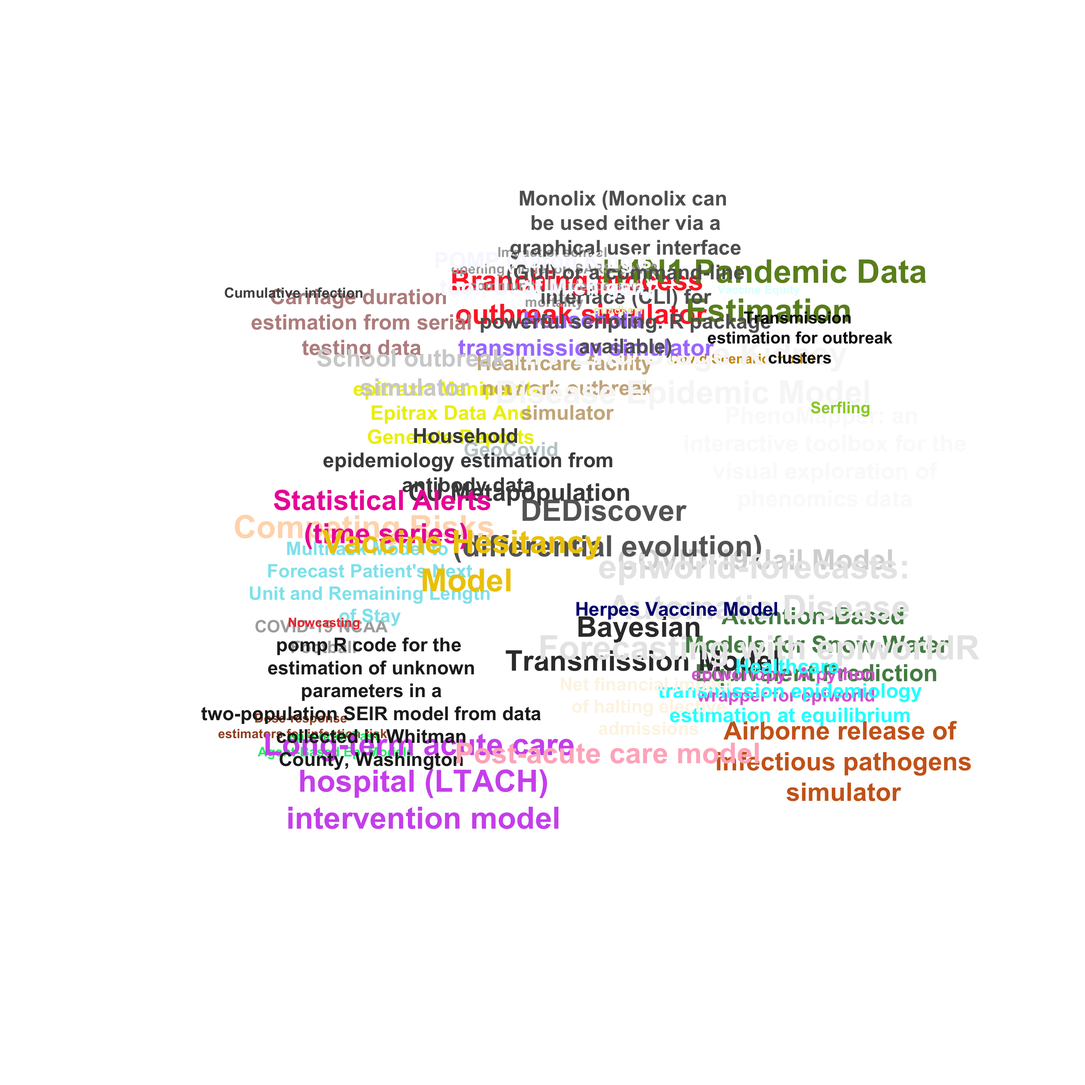
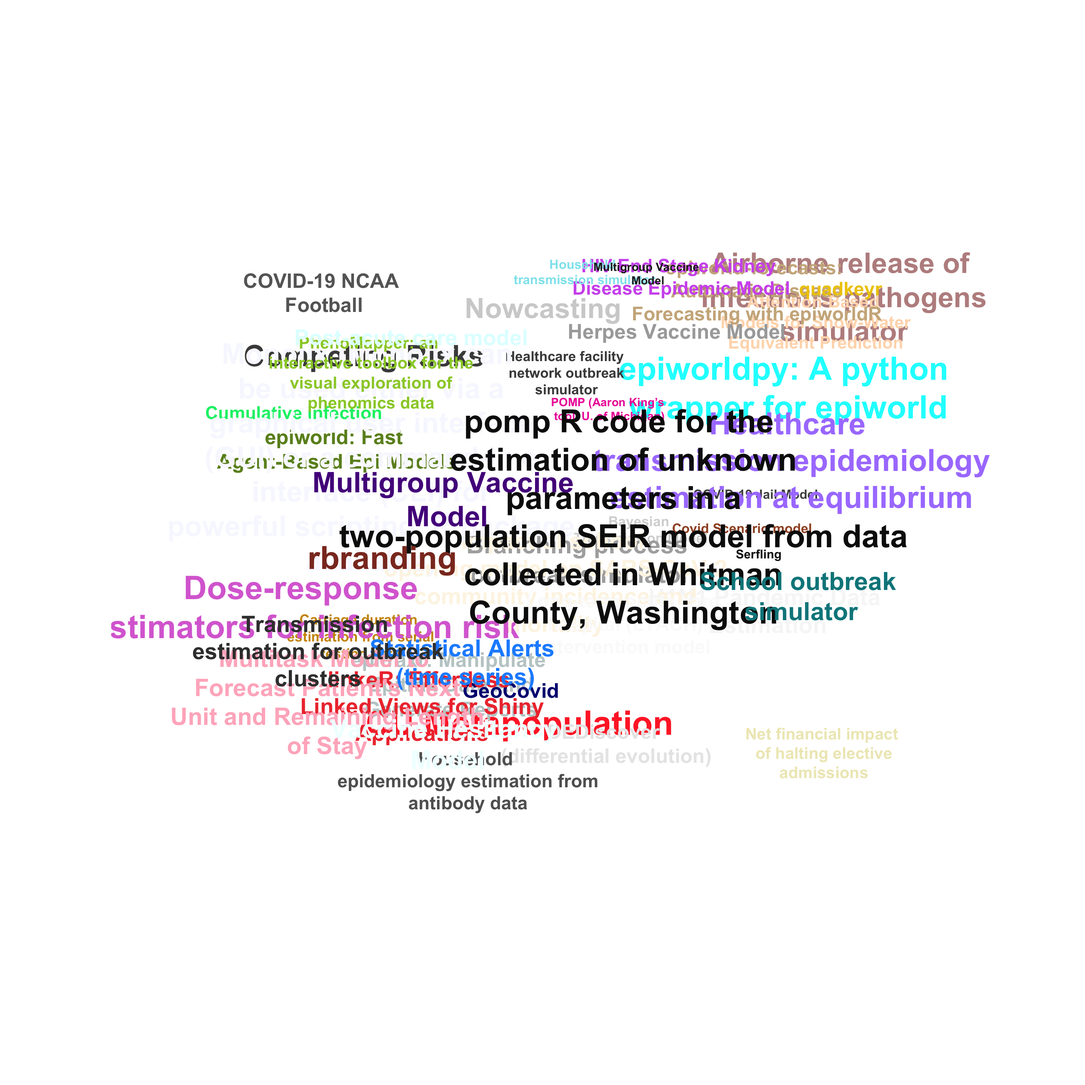
Rebuild README after resolving merge conflict

Changed region(s): [[0.0938, 0.1562, 0.9062, 0.7812]]

diff --git a/README.md b/README.md
@@ -7,18 +7,18 @@
 This repository is used for coordinating all the software development
 activities by the ForeSITE group.
 
-The list includes 44 tools. A complete list featuring completed and
-work-in-progress tools holds 59 entries. We will be updating this list
+The list includes 45 tools. A complete list featuring completed and
+work-in-progress tools holds 60 entries. We will be updating this list
 as we progress.
 
 |     | Type                                                      |   N |
 |:----|:----------------------------------------------------------|----:|
 | 5   | Epidemic Model - Scenario Modeling                        |  21 |
 | 8   | Parameter estimation                                      |  12 |
+| 2   | Decision Support tool                                     |   2 |
 | 3   | Developer Tool                                            |   2 |
 | 6   | Epidemic Model - Scenario Modeling & Parameter estimation |   2 |
 | 1   | Automation pipeline tool                                  |   1 |
-| 2   | Decision Support tool                                     |   1 |
 | 4   | Epidemic Model - Forecasting                              |   1 |
 | 7   | Nowcasting tool                                           |   1 |
 | 9   | Statistical Model - Forecasting                           |   1 |
@@ -27,7 +27,7 @@ Number of software packages by type
 
 | Language |   N |
 |:---------|----:|
-| r        |  24 |
+| r        |  25 |
 | Other    |  11 |
 | python   |   7 |
 | c++      |   3 |
@@ -41,7 +41,7 @@ Number of software packages by programming language.
 # Existing software packages
 
 List of existing software packages that are being used by the ForeSITE
-group. This list was last updated on 2025-07-28.
+group. This list was last updated on 2025-08-14.
 
 | N | Tool | Description |
 |---:|:---|:---|
@@ -58,36 +58,37 @@ group. This list was last updated on 2025-07-28.
 | 11 | Cumulative infection (R, SAS) | We’ve used Mortality Mapping (mMAP), an existing epidemiologic and statistical analysis approach by Lu et al. \[1,2\] to estimate the cumulative incidence of symptomatic COVID-19 in Veterans in the United States. mMAP is a time series deconvolution method which infers the true COVID-19 case counts from reported COVID-19 deaths. It uses symptom onset to death distribution, smoothed time series of reported COVID-19 deaths, and symptomatic case fatality rate (sCFR) to estimate the distribution of symptomatic COVID-19 cases. We focus on the adjusted version of the mMAP approach presented by Lu et al., which tries to account for the unreported COVID-19 deaths. While Lu uses excess influenza and pneumonia deaths to account for unreported COVID-19 deaths, we have extended their approach by using excess all-cause deaths. <br>([Learn more…](profiles.md#cumulative-infection))<br> |
 | 12 | DEDiscover (differential evolution) (Kotlin, C++.) | Parameter estimation using differential evolution.<br>([Learn more…](profiles.md#dediscover-differential-evolution))<br> |
 | 13 | Dose-response estimators for infection risk (R) | Estimate infection probability from a given dose of exposure using data sets from experimental dose-quantified exposures of humans or animals; model-based results used to perform quantitative risk assessment for potential human exposure scenarios. Parameter estimated: Per-unit-dose infection probability and associated additional parameters for more complicated dose-response models, including those that quantify dose-dependent latent/incubation period; can convert estimates to common “infectious dose” quantification metrics such as “ID-50.” Estimates derived via maximum likelihood for multiple equation-based dose-response models fit to exposure-response data.<br>([Learn more…](profiles.md#dose-response-estimators-for-infection-risk))<br> |
-| 14 | epiworld: Fast Agent-Based Epi Models (R, C++, Python, Webessembly) | A flexible framework for Agent-Based Models (ABM), the ‘epiworldR’ package provides methods for prototyping disease outbreaks and transmission models using a ‘C++’ backend, making it very fast. It supports multiple epidemiological models, including the Susceptible-Infected-Susceptible (SIS), Susceptible-Infected-Removed (SIR), Susceptible-Exposed-Infected-Removed (SEIR), and others, involving arbitrary mitigation policies and multiple-disease models. Users can specify infectiousness/susceptibility rates as a function of agents’ features, providing great complexity for the model dynamics. Furthermore, ‘epiworldR’ is ideal for simulation studies featuring large populations.<br>([Learn more…](profiles.md#epiworld-fast-agent-based-epi-models))<br>**GitHub:** [![GitHub last commit](https://img.shields.io/github/last-commit/UofUEpiBio/epiworld.png)](https://github.com/UofUEpiBio/epiworld) |
-| 15 | epiworld-forecasts: Automatic Disease Forecasting with epiworldR (R) | epiworld-forecasts uses epiworldR, GitHub Actions, and Docker to generate disease forecasts that update automatically. While we provide an example forecast of COVID-19 case counts in Utah, this tool is an open-source, template repository that can easily be adapted to generate forecasts for different diseases.<br>([Learn more…](profiles.md#epiworld-forecasts-automatic-disease-forecasting-with-epiworldr))<br>**GitHub:** [![GitHub last commit](https://img.shields.io/github/last-commit/EpiForeSITE/epiworld-forecasts.png)](https://github.com/EpiForeSITE/epiworld-forecasts) |
-| 16 | epiworldpy: A python wrapper for epiworld (Python) | A flexible framework for Agent-Based Models (ABM), the ‘epiworldR’ package provides methods for prototyping disease outbreaks and transmission models using a ‘C++’ backend, making it very fast. It supports multiple epidemiological models, including the Susceptible-Infected-Susceptible (SIS), Susceptible-Infected-Removed (SIR), Susceptible-Exposed-Infected-Removed (SEIR), and others, involving arbitrary mitigation policies and multiple-disease models. Users can specify infectiousness/susceptibility rates as a function of agents’ features, providing great complexity for the model dynamics. Furthermore, ‘epiworldR’ is ideal for simulation studies featuring large populations.<br>([Learn more…](profiles.md#epiworldpy-a-python-wrapper-for-epiworld))<br>**GitHub:** [![GitHub last commit](https://img.shields.io/github/last-commit/UofUEpiBio/epiworldpy.png)](https://github.com/UofUEpiBio/epiworldpy) |
-| 17 | GeoCovid (R) | Shiny App for visualizing mobility data and COVID-19 cases in Buenos Aires province during March to December 2020.<br>([Learn more…](profiles.md#geocovid))<br>**GitHub:** [![GitHub last commit](https://img.shields.io/github/last-commit/Fernandez-Lab-WSU/geocovid_app.png)](https://github.com/Fernandez-Lab-WSU/geocovid_app) |
-| 18 | H1N1 Pandemic Data Estimation (TBD) | Describes an SIR model parameter estimation with an improved fit using least squares estimation over maximum likelihood estimation. Parameter estimated: Transmission rate, recovery rate, R0, number of initial infectives<br>([Learn more…](profiles.md#h1n1-pandemic-data-estimation))<br> |
-| 19 | Healthcare facility network outbreak simulator (Anylogic) | Provides flexible framework for agent-based simulation of outbreaks among in-patients in a generic-but-realistic network of short/long-stay hospitals and nursing homes, as well as interventions to mitigate transmission and inter-facility spread. Scenarios(s) Modeled: Initial invasion of new pathogen / strain and/or endemic pathogens. Intervention scenarios for patient-targeted efforts including surveillance and isolation (contact precautions), vaccination, and anti-microbial drug treatment.<br>([Learn more…](profiles.md#healthcare-facility-network-outbreak-simulator))<br> |
-| 20 | Healthcare transmission epidemiology estimation at equilibrium (R) | Estimate the extent of patient-to-patient transmission and other quantities using admission prevalence and cross-sectional point-prevalence data for carriage of organisms among healthcare facility in-patients. Parameter estimated: Patient-to-patient transmission rate, facility reproduction number, rate of progression to infection, intervention effects if applicable. Estimates derived via solving differential equations at equilibrium and facility reproduction number equations.<br>([Learn more…](profiles.md#healthcare-transmission-epidemiology-estimation-at-equilibrium))<br> |
-| 21 | Herpes Vaccine Model (Matlab) | An ODE-based 6-compartment SI model with asymptomatic carriers and vaccinated classes to forecast the number of infections prevented with imperfect vaccination and infections prevented per vaccine administered. Parameter estimated: Highly correlated parameters determined using LHS PRCC. Scenarios(s) Modeled: Prophylactic (pre-exposure) vaccines, Therapeutic (post-exposure) vaccines, Parameter(s) Estimated: Highly correlated parameters determined using LHS PRCC<br>([Learn more…](profiles.md#herpes-vaccine-model))<br> |
-| 22 | HIV End Stage Kidney Disease Epidemic Model (Coded in Matlab, Berkeley Madonna, or Excel.) | An ODE-based model to predict future disease prevalence given the impact of drug therapy levels and its mechanism of action (i.e., stopping progression to disease or reducing deaths). Parameter estimated: Growth rate, death rate, drug efficacy to block disease progression. Scenarios(s) Modeled: Rebound in prevalence due to insufficient therapy (e.g., like in Paxlovid rebound).<br>([Learn more…](profiles.md#hiv-end-stage-kidney-disease-epidemic-model))<br> |
-| 23 | Household epidemiology estimation from antibody data (R) | Simultaneously estimate household importation risk, household secondary attack rate, and associated variability / heterogeneities using point-prevalence data for antibody positivity among household members. Parameter estimated: Household importation probability, household secondary attack rate, sensitivity / specificity of data for indicating prior infection, variability (dispersion) in transmissibility, and heterogeneities in those quantities over age and/or other identifiable characteristics of individuals and households. Estimates derived via maximum likelihood for final household outbreak size equations.<br>([Learn more…](profiles.md#household-epidemiology-estimation-from-antibody-data))<br> |
-| 24 | Household transmission simulator (R) | Simulate household importation and within-household transmission across a population of households, and intervention effects, e.g. vaccination. Scenarios(s) Modeled: Household importation and transmission with variability in transmissibility and heterogeneity across age groups and vaccination status.<br>([Learn more…](profiles.md#household-transmission-simulator))<br> |
-| 25 | Impact of school opening model on SARS-CoV-2 community incidence and mortality (Stata) | The goal of this statistical analysis was to compare SARS-CoV-2 community incidence and mortality rates across schools that opened in in-person, remote, or hybrid mode. Measure(s) of Economic Impact: Infections and mortality<br>([Learn more…](profiles.md#impact-of-school-opening-model-on-sars-cov-2-community-incidence-and-mortality))<br> |
-| 26 | linkeR: Effortless Linked Views for Shiny Applications (R) | linkeR makes it effortless to create linked views in Shiny applications. When users interact with one component (like clicking a map marker), all related components (tables, charts, other maps) automatically update to show corresponding information.<br>([Learn more…](profiles.md#linker-effortless-linked-views-for-shiny-applications))<br>**GitHub:** [![GitHub last commit](https://img.shields.io/github/last-commit/EpiForeSITE/linkeR/.png)](https://github.com/EpiForeSITE/linkeR/) |
-| 27 | Long-term acute care hospital (LTACH) intervention model (R) | Provides analytic framework for investigating patient-focused interventions to prevent transmission in high-risk healthcare facilities and their direct and population-level health impacts and threshold effects. Scenarios(s) Modeled: Intervention scenarios for surveillance and isolation (contact precautions), decolonization drugs, infection treatment, horizontal transmission reduction, and length of stay reduction.<br>([Learn more…](profiles.md#long-term-acute-care-hospital-ltach-intervention-model))<br> |
-| 28 | Monolix (Monolix can be used either via a graphical user interface (GUI) or a command-line interface (CLI) for powerful scripting. R package available) | Parameter estimation in non-linear mixed effect models. Parameter estimated: Any.<br>([Learn more…](profiles.md#monolix))<br> |
-| 29 | Multigroup Vaccine Model (R) | A tool for exploring the effects of varying rates of vaccination among disparate socio-economic groups<br>([Learn more…](profiles.md#multigroup-vaccine-model))<br>**GitHub:** [![GitHub last commit](https://img.shields.io/github/last-commit/EpiForeSITE/multigroup-vaccine.png)](https://github.com/EpiForeSITE/multigroup-vaccine) |
-| 30 | Multitask Model to Forecast Patient’s Next Unit and Remaining Length of Stay (Python) | Length of Stay prediction and unit transfer prediction tool. Scenarios(s) Modeled: In this multi-task learning model, we train the model to predict:Task-1: patient’s unit label in next time step. Task-2: patient’s remaining length of stay.The model inputs get updated on a daily basis and generates prediction accordingly.<br>([Learn more…](profiles.md#multitask-model-to-forecast-patient-s-next-unit-and-remaining-length-of-stay))<br>**GitHub:** [![GitHub last commit](https://img.shields.io/github/last-commit/madhobi/multitask_unit_and_days.png)](https://github.com/madhobi/multitask_unit_and_days) |
-| 31 | Net financial impact of halting elective admissions (Stata) | The goal of this model was to estimate the net financial impact to the hospital of halting elective admissions due to a COVID-19 surge. Measure(s) of Economic Impact: Hospital profit<br>([Learn more…](profiles.md#net-financial-impact-of-halting-elective-admissions))<br> |
-| 32 | Nowcasting (TBD) | Given the time lag between laboratory testing for disease and eventual reporting, we’ve developed a model which consumes data from both community and VA to predict “now” how many positive tests for a disease (COVID-19 in this context) will eventually be reported as positive. A VA HSR&D abstract is available.<br>([Learn more…](profiles.md#nowcasting))<br> |
-| 33 | PhenoMapper: an interactive toolbox for the visual exploration of phenomics data (PhenoMapper extension) | TDA tool that can possibly help us to view some trajectory data. Scenarios(s) Modeled: We demonstrate the utility of this new tool on real-world plant (e.g., maize) phenomics datasets.<br>([Learn more…](profiles.md#phenomapper-an-interactive-toolbox-for-the-visual-exploration-of-phenomics-data))<br>**GitHub:** [![GitHub last commit](https://img.shields.io/github/last-commit/tdavislab/PhenoMapper.png)](https://github.com/tdavislab/PhenoMapper) |
-| 34 | POMP (Aaron King’s tool, U. of Michigan) (R) | Analysis of time series data based on stochastic dynamical systems models<br>([Learn more…](profiles.md#pomp-aaron-king-s-tool-u-of-michigan))<br>**GitHub:** [![GitHub last commit](https://img.shields.io/github/last-commit/kingaa/pomp.png)](https://github.com/kingaa/pomp) |
-| 35 | pomp R code for the estimation of unknown parameters in a two-population SEIR model from data collected in Whitman County, Washington (R) | Build a two-population SEIR model using the pomp coding framework in R and estimate the unknown parameters in this model using the PMCMC algorithm. Parameter estimated: Transmission parameters (transmission within each population and transmission across the two-populations), testing probability, and overdispersion parameter.<br>([Learn more…](profiles.md#pomp-r-code-for-the-estimation-of-unknown-parameters-in-a-two-population-seir-model-from-data-collected-in-whitman-county-washington))<br> |
-| 36 | Post-acute care model (R) | A basic model to plan for the post-acute care needs following a hospital surge<br>([Learn more…](profiles.md#post-acute-care-model))<br>**GitHub:** [![GitHub last commit](https://img.shields.io/github/last-commit/mattrmaloney/covid-post-acute-care.png)](https://github.com/mattrmaloney/covid-post-acute-care) |
-| 37 | quadkeyr (Python) | An R package designed to create raster images from QuadKey-identified data (Microsoft Bing Maps Tile System), aiming to simplify the analysis of Facebook mobility data.<br>([Learn more…](profiles.md#quadkeyr))<br>**GitHub:** [![GitHub last commit](https://img.shields.io/github/last-commit/Fernandez-Lab-WSU/quadkeyr.png)](https://github.com/Fernandez-Lab-WSU/quadkeyr) |
-| 38 | rbranding (R) | An R package that facilitates the creation of Shiny applications and quarto documents with support for site-specific branding and styling.<br>([Learn more…](profiles.md#rbranding))<br>**GitHub:** [![GitHub last commit](https://img.shields.io/github/last-commit/EpiForeSITE/branding-package.png)](https://github.com/EpiForeSITE/branding-package) |
-| 39 | School outbreak simulator (Anylogic) | Agent-based simulation of person-to-person transmission at schools over data-based dynamic proximity contact networks. Scenarios(s) Modeled: Transmission modeled during school hours; can model interventions affecting the contact network and school attendance behavior.<br>([Learn more…](profiles.md#school-outbreak-simulator))<br> |
-| 40 | Serfling (JMP) | Classic Serfling-type regression model for seasonal diseases. Can be used to estimate both excess risk (based on breaching a threshold), or estimate the peak week and other parameters of a yearly epidemic curve.<br>([Learn more…](profiles.md#serfling))<br> |
-| 41 | Statistical Alerts (time series) (R) | We have supported an Operations system for processing time series for “aberrations” (aka, “alerts”, “potential outbreaks”) for 8+ years in VA BASIC. During this time, we’ve integrated several among the suite of algorithms available in the R package titled “surveillance”. This includes several classes of numerical methods, of which some are window-based, control chart-based or trained linear models. A brief presentation on this is attached here.<br>([Learn more…](profiles.md#statistical-alerts-time-series))<br> |
-| 42 | Transmission estimation for outbreak clusters (R) | Provides estimates for individual-level transmission distribution (mean and variance) based on data from prior isolated outbreak clusters. Useful for quantifying the risk of superspreading events and the risk that future outbreaks will exceed a given threshold.Parameter estimated: Basic reproduction number; dispersion parameter quantifying variance in transmission; extensions estimate changes in reproduction number by generation, e.g. post-control reproduction number. Estimated via maximum likelihood using final size distribution equations for branching process models.<br>([Learn more…](profiles.md#transmission-estimation-for-outbreak-clusters))<br> |
-| 43 | Multigroup Vaccine Model (R) | A tool for exploring the effects of varying rates of vaccination among disparate socio-economic groups<br>([Learn more…](profiles.md#multigroup-vaccine-model))<br>**GitHub:** [![GitHub last commit](https://img.shields.io/github/last-commit/EpiForeSITE/vaccine-equity-model.png)](https://github.com/EpiForeSITE/vaccine-equity-model) |
-| 44 | Vaccine Hesitancy Model (Matlab, R, and Mathematica.) | An ODE (ordinary differential equation)-based SVEIR model with 3 compartments for symptoms (mild, moderate, severe) that can quantify the tradeoffs between vaccine efficacy and vaccine hesitancy on reducing the disease burden. Scenarios(s) Modeled: R0, cumulative infections, and deaths due to varying values of transmission rate, vaccine coverage rate, vaccine efficacy, and vaccine hesitancy. The vaccine efficacy required to compensate for different levels of vaccine hesitancy.<br>([Learn more…](profiles.md#vaccine-hesitancy-model))<br> |
+| 14 | epitraxr: Manipulate Epitrax Data And Generate Reports (R) | R package for manipulating Epitrax data and generating reports. This tool is designed to simplify the process of working with Epitrax data, making it easier for public health professionals to analyze and report on disease surveillance data. It generates internal and public reports in CSV, Excel, or PDF formats.<br>([Learn more…](profiles.md#epitraxr-manipulate-epitrax-data-and-generate-reports))<br>**GitHub:** [![GitHub last commit](https://img.shields.io/github/last-commit/EpiForeSITE/epitraxr.png)](https://github.com/EpiForeSITE/epitraxr) |
+| 15 | epiworld: Fast Agent-Based Epi Models (R, C++, Python, Webessembly) | A flexible framework for Agent-Based Models (ABM), the ‘epiworldR’ package provides methods for prototyping disease outbreaks and transmission models using a ‘C++’ backend, making it very fast. It supports multiple epidemiological models, including the Susceptible-Infected-Susceptible (SIS), Susceptible-Infected-Removed (SIR), Susceptible-Exposed-Infected-Removed (SEIR), and others, involving arbitrary mitigation policies and multiple-disease models. Users can specify infectiousness/susceptibility rates as a function of agents’ features, providing great complexity for the model dynamics. Furthermore, ‘epiworldR’ is ideal for simulation studies featuring large populations.<br>([Learn more…](profiles.md#epiworld-fast-agent-based-epi-models))<br>**GitHub:** [![GitHub last commit](https://img.shields.io/github/last-commit/UofUEpiBio/epiworld.png)](https://github.com/UofUEpiBio/epiworld) |
+| 16 | epiworld-forecasts: Automatic Disease Forecasting with epiworldR (R) | epiworld-forecasts uses epiworldR, GitHub Actions, and Docker to generate disease forecasts that update automatically. While we provide an example forecast of COVID-19 case counts in Utah, this tool is an open-source, template repository that can easily be adapted to generate forecasts for different diseases.<br>([Learn more…](profiles.md#epiworld-forecasts-automatic-disease-forecasting-with-epiworldr))<br>**GitHub:** [![GitHub last commit](https://img.shields.io/github/last-commit/EpiForeSITE/epiworld-forecasts.png)](https://github.com/EpiForeSITE/epiworld-forecasts) |
+| 17 | epiworldpy: A python wrapper for epiworld (Python) | A flexible framework for Agent-Based Models (ABM), the ‘epiworldR’ package provides methods for prototyping disease outbreaks and transmission models using a ‘C++’ backend, making it very fast. It supports multiple epidemiological models, including the Susceptible-Infected-Susceptible (SIS), Susceptible-Infected-Removed (SIR), Susceptible-Exposed-Infected-Removed (SEIR), and others, involving arbitrary mitigation policies and multiple-disease models. Users can specify infectiousness/susceptibility rates as a function of agents’ features, providing great complexity for the model dynamics. Furthermore, ‘epiworldR’ is ideal for simulation studies featuring large populations.<br>([Learn more…](profiles.md#epiworldpy-a-python-wrapper-for-epiworld))<br>**GitHub:** [![GitHub last commit](https://img.shields.io/github/last-commit/UofUEpiBio/epiworldpy.png)](https://github.com/UofUEpiBio/epiworldpy) |
+| 18 | GeoCovid (R) | Shiny App for visualizing mobility data and COVID-19 cases in Buenos Aires province during March to December 2020.<br>([Learn more…](profiles.md#geocovid))<br>**GitHub:** [![GitHub last commit](https://img.shields.io/github/last-commit/Fernandez-Lab-WSU/geocovid_app.png)](https://github.com/Fernandez-Lab-WSU/geocovid_app) |
+| 19 | H1N1 Pandemic Data Estimation (TBD) | Describes an SIR model parameter estimation with an improved fit using least squares estimation over maximum likelihood estimation. Parameter estimated: Transmission rate, recovery rate, R0, number of initial infectives<br>([Learn more…](profiles.md#h1n1-pandemic-data-estimation))<br> |
+| 20 | Healthcare facility network outbreak simulator (Anylogic) | Provides flexible framework for agent-based simulation of outbreaks among in-patients in a generic-but-realistic network of short/long-stay hospitals and nursing homes, as well as interventions to mitigate transmission and inter-facility spread. Scenarios(s) Modeled: Initial invasion of new pathogen / strain and/or endemic pathogens. Intervention scenarios for patient-targeted efforts including surveillance and isolation (contact precautions), vaccination, and anti-microbial drug treatment.<br>([Learn more…](profiles.md#healthcare-facility-network-outbreak-simulator))<br> |
+| 21 | Healthcare transmission epidemiology estimation at equilibrium (R) | Estimate the extent of patient-to-patient transmission and other quantities using admission prevalence and cross-sectional point-prevalence data for carriage of organisms among healthcare facility in-patients. Parameter estimated: Patient-to-patient transmission rate, facility reproduction number, rate of progression to infection, intervention effects if applicable. Estimates derived via solving differential equations at equilibrium and facility reproduction number equations.<br>([Learn more…](profiles.md#healthcare-transmission-epidemiology-estimation-at-equilibrium))<br> |
+| 22 | Herpes Vaccine Model (Matlab) | An ODE-based 6-compartment SI model with asymptomatic carriers and vaccinated classes to forecast the number of infections prevented with imperfect vaccination and infections prevented per vaccine administered. Parameter estimated: Highly correlated parameters determined using LHS PRCC. Scenarios(s) Modeled: Prophylactic (pre-exposure) vaccines, Therapeutic (post-exposure) vaccines, Parameter(s) Estimated: Highly correlated parameters determined using LHS PRCC<br>([Learn more…](profiles.md#herpes-vaccine-model))<br> |
+| 23 | HIV End Stage Kidney Disease Epidemic Model (Coded in Matlab, Berkeley Madonna, or Excel.) | An ODE-based model to predict future disease prevalence given the impact of drug therapy levels and its mechanism of action (i.e., stopping progression to disease or reducing deaths). Parameter estimated: Growth rate, death rate, drug efficacy to block disease progression. Scenarios(s) Modeled: Rebound in prevalence due to insufficient therapy (e.g., like in Paxlovid rebound).<br>([Learn more…](profiles.md#hiv-end-stage-kidney-disease-epidemic-model))<br> |
+| 24 | Household epidemiology estimation from antibody data (R) | Simultaneously estimate household importation risk, household secondary attack rate, and associated variability / heterogeneities using point-prevalence data for antibody positivity among household members. Parameter estimated: Household importation probability, household secondary attack rate, sensitivity / specificity of data for indicating prior infection, variability (dispersion) in transmissibility, and heterogeneities in those quantities over age and/or other identifiable characteristics of individuals and households. Estimates derived via maximum likelihood for final household outbreak size equations.<br>([Learn more…](profiles.md#household-epidemiology-estimation-from-antibody-data))<br> |
+| 25 | Household transmission simulator (R) | Simulate household importation and within-household transmission across a population of households, and intervention effects, e.g. vaccination. Scenarios(s) Modeled: Household importation and transmission with variability in transmissibility and heterogeneity across age groups and vaccination status.<br>([Learn more…](profiles.md#household-transmission-simulator))<br> |
+| 26 | Impact of school opening model on SARS-CoV-2 community incidence and mortality (Stata) | The goal of this statistical analysis was to compare SARS-CoV-2 community incidence and mortality rates across schools that opened in in-person, remote, or hybrid mode. Measure(s) of Economic Impact: Infections and mortality<br>([Learn more…](profiles.md#impact-of-school-opening-model-on-sars-cov-2-community-incidence-and-mortality))<br> |
+| 27 | linkeR: Effortless Linked Views for Shiny Applications (R) | linkeR makes it effortless to create linked views in Shiny applications. When users interact with one component (like clicking a map marker), all related components (tables, charts, other maps) automatically update to show corresponding information.<br>([Learn more…](profiles.md#linker-effortless-linked-views-for-shiny-applications))<br>**GitHub:** [![GitHub last commit](https://img.shields.io/github/last-commit/EpiForeSITE/linkeR/.png)](https://github.com/EpiForeSITE/linkeR/) |
+| 28 | Long-term acute care hospital (LTACH) intervention model (R) | Provides analytic framework for investigating patient-focused interventions to prevent transmission in high-risk healthcare facilities and their direct and population-level health impacts and threshold effects. Scenarios(s) Modeled: Intervention scenarios for surveillance and isolation (contact precautions), decolonization drugs, infection treatment, horizontal transmission reduction, and length of stay reduction.<br>([Learn more…](profiles.md#long-term-acute-care-hospital-ltach-intervention-model))<br> |
+| 29 | Monolix (Monolix can be used either via a graphical user interface (GUI) or a command-line interface (CLI) for powerful scripting. R package available) | Parameter estimation in non-linear mixed effect models. Parameter estimated: Any.<br>([Learn more…](profiles.md#monolix))<br> |
+| 30 | Multigroup Vaccine Model (R) | A tool for exploring the effects of varying rates of vaccination among disparate socio-economic groups<br>([Learn more…](profiles.md#multigroup-vaccine-model))<br>**GitHub:** [![GitHub last commit](https://img.shields.io/github/last-commit/EpiForeSITE/multigroup-vaccine.png)](https://github.com/EpiForeSITE/multigroup-vaccine) |
+| 31 | Multitask Model to Forecast Patient’s Next Unit and Remaining Length of Stay (Python) | Length of Stay prediction and unit transfer prediction tool. Scenarios(s) Modeled: In this multi-task learning model, we train the model to predict:Task-1: patient’s unit label in next time step. Task-2: patient’s remaining length of stay.The model inputs get updated on a daily basis and generates prediction accordingly.<br>([Learn more…](profiles.md#multitask-model-to-forecast-patient-s-next-unit-and-remaining-length-of-stay))<br>**GitHub:** [![GitHub last commit](https://img.shields.io/github/last-commit/madhobi/multitask_unit_and_days.png)](https://github.com/madhobi/multitask_unit_and_days) |
+| 32 | Net financial impact of halting elective admissions (Stata) | The goal of this model was to estimate the net financial impact to the hospital of halting elective admissions due to a COVID-19 surge. Measure(s) of Economic Impact: Hospital profit<br>([Learn more…](profiles.md#net-financial-impact-of-halting-elective-admissions))<br> |
+| 33 | Nowcasting (TBD) | Given the time lag between laboratory testing for disease and eventual reporting, we’ve developed a model which consumes data from both community and VA to predict “now” how many positive tests for a disease (COVID-19 in this context) will eventually be reported as positive. A VA HSR&D abstract is available.<br>([Learn more…](profiles.md#nowcasting))<br> |
+| 34 | PhenoMapper: an interactive toolbox for the visual exploration of phenomics data (PhenoMapper extension) | TDA tool that can possibly help us to view some trajectory data. Scenarios(s) Modeled: We demonstrate the utility of this new tool on real-world plant (e.g., maize) phenomics datasets.<br>([Learn more…](profiles.md#phenomapper-an-interactive-toolbox-for-the-visual-exploration-of-phenomics-data))<br>**GitHub:** [![GitHub last commit](https://img.shields.io/github/last-commit/tdavislab/PhenoMapper.png)](https://github.com/tdavislab/PhenoMapper) |
+| 35 | POMP (Aaron King’s tool, U. of Michigan) (R) | Analysis of time series data based on stochastic dynamical systems models<br>([Learn more…](profiles.md#pomp-aaron-king-s-tool-u-of-michigan))<br>**GitHub:** [![GitHub last commit](https://img.shields.io/github/last-commit/kingaa/pomp.png)](https://github.com/kingaa/pomp) |
+| 36 | pomp R code for the estimation of unknown parameters in a two-population SEIR model from data collected in Whitman County, Washington (R) | Build a two-population SEIR model using the pomp coding framework in R and estimate the unknown parameters in this model using the PMCMC algorithm. Parameter estimated: Transmission parameters (transmission within each population and transmission across the two-populations), testing probability, and overdispersion parameter.<br>([Learn more…](profiles.md#pomp-r-code-for-the-estimation-of-unknown-parameters-in-a-two-population-seir-model-from-data-collected-in-whitman-county-washington))<br> |
+| 37 | Post-acute care model (R) | A basic model to plan for the post-acute care needs following a hospital surge<br>([Learn more…](profiles.md#post-acute-care-model))<br>**GitHub:** [![GitHub last commit](https://img.shields.io/github/last-commit/mattrmaloney/covid-post-acute-care.png)](https://github.com/mattrmaloney/covid-post-acute-care) |
+| 38 | quadkeyr (Python) | An R package designed to create raster images from QuadKey-identified data (Microsoft Bing Maps Tile System), aiming to simplify the analysis of Facebook mobility data.<br>([Learn more…](profiles.md#quadkeyr))<br>**GitHub:** [![GitHub last commit](https://img.shields.io/github/last-commit/Fernandez-Lab-WSU/quadkeyr.png)](https://github.com/Fernandez-Lab-WSU/quadkeyr) |
+| 39 | rbranding (R) | An R package that facilitates the creation of Shiny applications and quarto documents with support for site-specific branding and styling.<br>([Learn more…](profiles.md#rbranding))<br>**GitHub:** [![GitHub last commit](https://img.shields.io/github/last-commit/EpiForeSITE/branding-package.png)](https://github.com/EpiForeSITE/branding-package) |
+| 40 | School outbreak simulator (Anylogic) | Agent-based simulation of person-to-person transmission at schools over data-based dynamic proximity contact networks. Scenarios(s) Modeled: Transmission modeled during school hours; can model interventions affecting the contact network and school attendance behavior.<br>([Learn more…](profiles.md#school-outbreak-simulator))<br> |
+| 41 | Serfling (JMP) | Classic Serfling-type regression model for seasonal diseases. Can be used to estimate both excess risk (based on breaching a threshold), or estimate the peak week and other parameters of a yearly epidemic curve.<br>([Learn more…](profiles.md#serfling))<br> |
+| 42 | Statistical Alerts (time series) (R) | We have supported an Operations system for processing time series for “aberrations” (aka, “alerts”, “potential outbreaks”) for 8+ years in VA BASIC. During this time, we’ve integrated several among the suite of algorithms available in the R package titled “surveillance”. This includes several classes of numerical methods, of which some are window-based, control chart-based or trained linear models. A brief presentation on this is attached here.<br>([Learn more…](profiles.md#statistical-alerts-time-series))<br> |
+| 43 | Transmission estimation for outbreak clusters (R) | Provides estimates for individual-level transmission distribution (mean and variance) based on data from prior isolated outbreak clusters. Useful for quantifying the risk of superspreading events and the risk that future outbreaks will exceed a given threshold.Parameter estimated: Basic reproduction number; dispersion parameter quantifying variance in transmission; extensions estimate changes in reproduction number by generation, e.g. post-control reproduction number. Estimated via maximum likelihood using final size distribution equations for branching process models.<br>([Learn more…](profiles.md#transmission-estimation-for-outbreak-clusters))<br> |
+| 44 | Multigroup Vaccine Model (R) | A tool for exploring the effects of varying rates of vaccination among disparate socio-economic groups<br>([Learn more…](profiles.md#multigroup-vaccine-model))<br>**GitHub:** [![GitHub last commit](https://img.shields.io/github/last-commit/EpiForeSITE/vaccine-equity-model.png)](https://github.com/EpiForeSITE/vaccine-equity-model) |
+| 45 | Vaccine Hesitancy Model (Matlab, R, and Mathematica.) | An ODE (ordinary differential equation)-based SVEIR model with 3 compartments for symptoms (mild, moderate, severe) that can quantify the tradeoffs between vaccine efficacy and vaccine hesitancy on reducing the disease burden. Scenarios(s) Modeled: R0, cumulative infections, and deaths due to varying values of transmission rate, vaccine coverage rate, vaccine efficacy, and vaccine hesitancy. The vaccine efficacy required to compensate for different levels of vaccine hesitancy.<br>([Learn more…](profiles.md#vaccine-hesitancy-model))<br> |
 
 ![](README_files/figure-commonmark/wordcloud-1.png)

diff --git a/profiles.md b/profiles.md
@@ -1,6 +1,6 @@
 # Profiles
 
-This file is automatically generated and should not be edited manually. Last updated on 2025-07-28.
+This file is automatically generated and should not be edited manually. Last updated on 2025-08-14.
 
 ## Airborne release of infectious pathogens simulator
 
